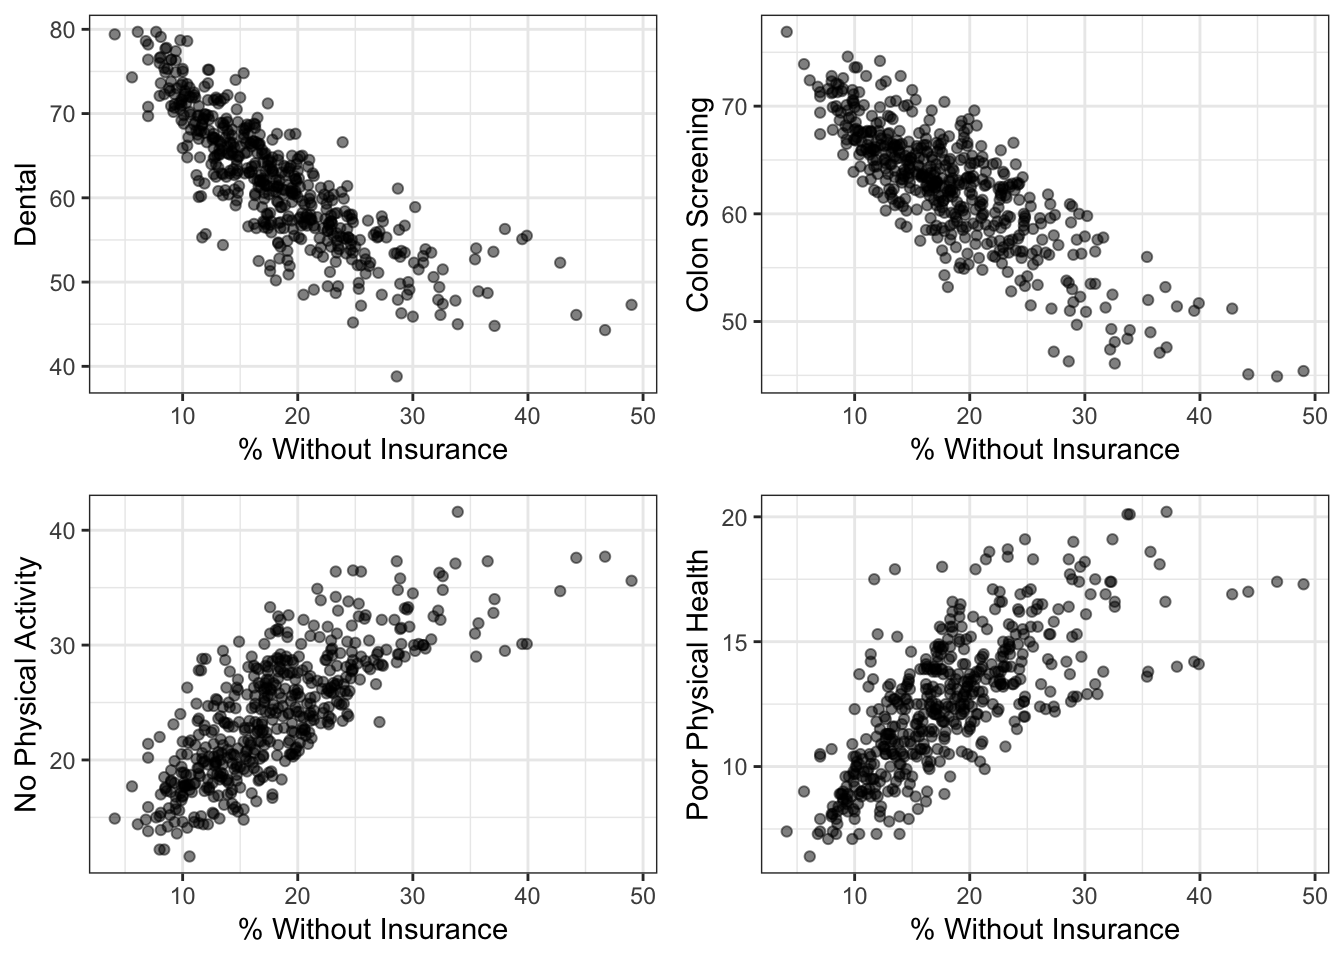
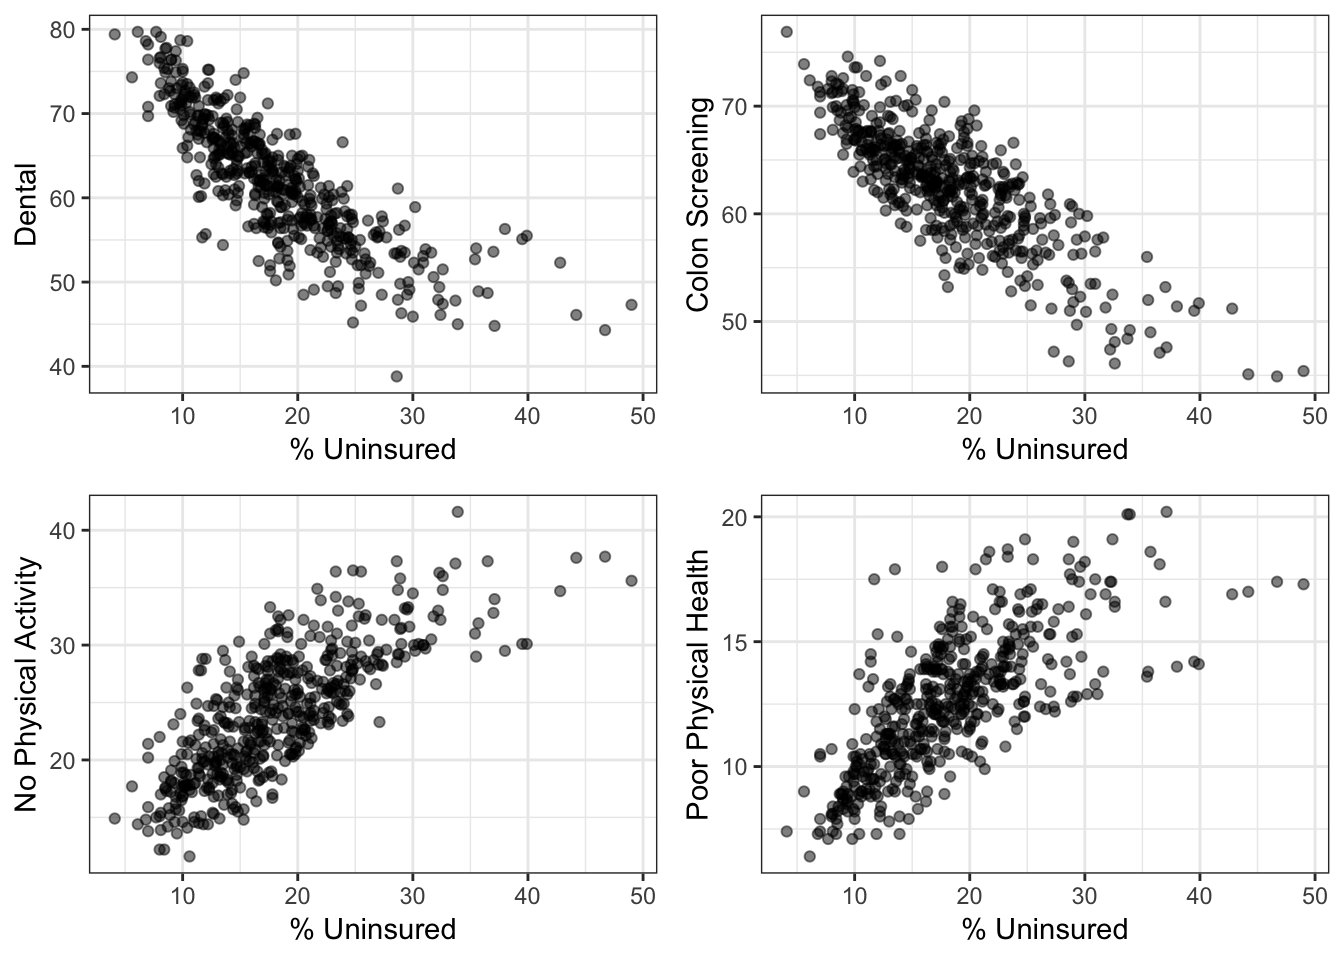
fixing axis titles

diff --git a/healthcare_expenditure.html b/healthcare_expenditure.html
@@ -229,49 +229,8 @@ $(document).ready(function () {
 <p><img src="healthcare_expenditure_files/figure-html/unnamed-chunk-2-1.png" width="672" /></p>
 <p>This map suggests that there very well may be regional differences in healthcare spending. Exploring this question shows clear graphical differences in regional spending:</p>
 <div id="htmlwidget-d6571c21b0c5cf5f8ed4" style="width:672px;height:480px;" class="plotly html-widget"></div>
-<script type="application/json" data-for="htmlwidget-d6571c21b0c5cf5f8ed4">{"x":{"visdat":{"31de7c56e632":["function () ","plotlyVisDat"]},"cur_data":"31de7c56e632","attrs":{"31de7c56e632":{"y":{},"text":{},"color":{},"alpha_stroke":1,"sizes":[10,100],"spans":[1,20],"type":"box"}},"layout":{"margin":{"b":40,"l":60,"t":25,"r":10},"xaxis":{"domain":[0,1],"automargin":true,"title":"Region"},"yaxis":{"domain":[0,1],"automargin":true,"title":"Health Expenditures per Capita per State"},"title":"Comparing Healthcare Expenditure Across Regions","font":"Open Sans","titlefont":"Open Sans","hovermode":"closest","showlegend":true},"source":"A","config":{"modeBarButtonsToAdd":[{"name":"Collaborate","icon":{"width":1000,"ascent":500,"descent":-50,"path":"M487 375c7-10 9-23 5-36l-79-259c-3-12-11-23-22-31-11-8-22-12-35-12l-263 0c-15 0-29 5-43 15-13 10-23 23-28 37-5 13-5 25-1 37 0 0 0 3 1 7 1 5 1 8 1 11 0 2 0 4-1 6 0 3-1 5-1 6 1 2 2 4 3 6 1 2 2 4 4 6 2 3 4 5 5 7 5 7 9 16 13 26 4 10 7 19 9 26 0 2 0 5 0 9-1 4-1 6 0 8 0 2 2 5 4 8 3 3 5 5 5 7 4 6 8 15 12 26 4 11 7 19 7 26 1 1 0 4 0 9-1 4-1 7 0 8 1 2 3 5 6 8 4 4 6 6 6 7 4 5 8 13 13 24 4 11 7 20 7 28 1 1 0 4 0 7-1 3-1 6-1 7 0 2 1 4 3 6 1 1 3 4 5 6 2 3 3 5 5 6 1 2 3 5 4 9 2 3 3 7 5 10 1 3 2 6 4 10 2 4 4 7 6 9 2 3 4 5 7 7 3 2 7 3 11 3 3 0 8 0 13-1l0-1c7 2 12 2 14 2l218 0c14 0 25-5 32-16 8-10 10-23 6-37l-79-259c-7-22-13-37-20-43-7-7-19-10-37-10l-248 0c-5 0-9-2-11-5-2-3-2-7 0-12 4-13 18-20 41-20l264 0c5 0 10 2 16 5 5 3 8 6 10 11l85 282c2 5 2 10 2 17 7-3 13-7 17-13z m-304 0c-1-3-1-5 0-7 1-1 3-2 6-2l174 0c2 0 4 1 7 2 2 2 4 4 5 7l6 18c0 3 0 5-1 7-1 1-3 2-6 2l-173 0c-3 0-5-1-8-2-2-2-4-4-4-7z m-24-73c-1-3-1-5 0-7 2-2 3-2 6-2l174 0c2 0 5 0 7 2 3 2 4 4 5 7l6 18c1 2 0 5-1 6-1 2-3 3-5 3l-174 0c-3 0-5-1-7-3-3-1-4-4-5-6z"},"click":"function(gd) { \n        // is this being viewed in RStudio?\n        if (location.search == '?viewer_pane=1') {\n          alert('To learn about plotly for collaboration, visit:\\n https://cpsievert.github.io/plotly_book/plot-ly-for-collaboration.html');\n        } else {\n          window.open('https://cpsievert.github.io/plotly_book/plot-ly-for-collaboration.html', '_blank');\n        }\n      }"}],"cloud":false},"data":[{"y":[11064,6452,7549,6804,7299,6927,8221,6714,7214,8044,5982,7913,8320],"text":["Health Expenditures per Capita: 11064<br />State: AK","Health Expenditures per Capita: 6452<br />State: AZ","Health Expenditures per Capita: 7549<br />State: CA","Health Expenditures per Capita: 6804<br />State: CO","Health Expenditures per Capita: 7299<br />State: HI","Health Expenditures per Capita: 6927<br />State: ID","Health Expenditures per Capita: 8221<br />State: MT","Health Expenditures per Capita: 6714<br />State: NV","Health Expenditures per Capita: 7214<br />State: NM","Health Expenditures per Capita: 8044<br />State: OR","Health Expenditures per Capita: 5982<br />State: UT","Health Expenditures per Capita: 7913<br />State: WA","Health Expenditures per Capita: 8320<br />State: WY"],"type":"box","name":"West","marker":{"color":"rgba(102,194,165,1)","line":{"color":"rgba(102,194,165,1)"}},"line":{"color":"rgba(102,194,165,1)"},"xaxis":"x","yaxis":"y","frame":null},{"y":[7281,7408,10254,11944,8076,6587,8004,7815,8602,7646,7264,7627,7311,7372,6998,7556,9462],"text":["Health Expenditures per Capita: 7281<br />State: AL","Health Expenditures per Capita: 7408<br />State: AR","Health Expenditures per Capita: 10254<br />State: DE","Health Expenditures per Capita: 11944<br />State: DC","Health Expenditures per Capita: 8076<br />State: FL","Health Expenditures per Capita: 6587<br />State: GA","Health Expenditures per Capita: 8004<br />State: KY","Health Expenditures per Capita: 7815<br />State: LA","Health Expenditures per Capita: 8602<br />State: MD","Health Expenditures per Capita: 7646<br />State: MS","Health Expenditures per Capita: 7264<br />State: NC","Health Expenditures per Capita: 7627<br />State: OK","Health Expenditures per Capita: 7311<br />State: SC","Health Expenditures per Capita: 7372<br />State: TN","Health Expenditures per Capita: 6998<br />State: TX","Health Expenditures per Capita: 7556<br />State: VA","Health Expenditures per Capita: 9462<br />State: WV"],"type":"box","name":"South","marker":{"color":"rgba(252,141,98,1)","line":{"color":"rgba(252,141,98,1)"}},"line":{"color":"rgba(252,141,98,1)"},"xaxis":"x","yaxis":"y","frame":null},{"y":[8262,8300,8200,7651,8055,8871,8107,8412,9851,8712,8933,8702],"text":["Health Expenditures per Capita: 8262<br />State: IL","Health Expenditures per Capita: 8300<br />State: IN","Health Expenditures per Capita: 8200<br />State: IA","Health Expenditures per Capita: 7651<br />State: KS","Health Expenditures per Capita: 8055<br />State: MI","Health Expenditures per Capita: 8871<br />State: MN","Health Expenditures per Capita: 8107<br />State: MO","Health Expenditures per Capita: 8412<br />State: NE","Health Expenditures per Capita: 9851<br />State: ND","Health Expenditures per Capita: 8712<br />State: OH","Health Expenditures per Capita: 8933<br />State: SD","Health Expenditures per Capita: 8702<br />State: WI"],"type":"box","name":"Midwest","marker":{"color":"rgba(141,160,203,1)","line":{"color":"rgba(141,160,203,1)"}},"line":{"color":"rgba(141,160,203,1)"},"xaxis":"x","yaxis":"y","frame":null},{"y":[9859,9531,10559,9589,8859,9778,9258,9551,10190],"text":["Health Expenditures per Capita: 9859<br />State: CT","Health Expenditures per Capita: 9531<br />State: ME","Health Expenditures per Capita: 10559<br />State: MA","Health Expenditures per Capita: 9589<br />State: NH","Health Expenditures per Capita: 8859<br />State: NJ","Health Expenditures per Capita: 9778<br />State: NY","Health Expenditures per Capita: 9258<br />State: PA","Health Expenditures per Capita: 9551<br />State: RI","Health Expenditures per Capita: 10190<br />State: VT"],"type":"box","name":"Northeast","marker":{"color":"rgba(231,138,195,1)","line":{"color":"rgba(231,138,195,1)"}},"line":{"color":"rgba(231,138,195,1)"},"xaxis":"x","yaxis":"y","frame":null}],"highlight":{"on":"plotly_click","persistent":false,"dynamic":false,"selectize":false,"opacityDim":0.2,"selected":{"opacity":1},"debounce":0},"base_url":"https://plot.ly"},"evals":["config.modeBarButtonsToAdd.0.click"],"jsHooks":[]}</script>
+<script type="application/json" data-for="htmlwidget-d6571c21b0c5cf5f8ed4">{"x":{"visdat":{"37666c955262":["function () ","plotlyVisDat"]},"cur_data":"37666c955262","attrs":{"37666c955262":{"y":{},"text":{},"color":{},"alpha_stroke":1,"sizes":[10,100],"spans":[1,20],"type":"box"}},"layout":{"margin":{"b":40,"l":60,"t":25,"r":10},"xaxis":{"domain":[0,1],"automargin":true,"title":"Region"},"yaxis":{"domain":[0,1],"automargin":true,"title":"Health Expenditures per Capita per State"},"title":"Comparing Healthcare Expenditure Across Regions","font":"Open Sans","titlefont":"Open Sans","hovermode":"closest","showlegend":true},"source":"A","config":{"modeBarButtonsToAdd":[{"name":"Collaborate","icon":{"width":1000,"ascent":500,"descent":-50,"path":"M487 375c7-10 9-23 5-36l-79-259c-3-12-11-23-22-31-11-8-22-12-35-12l-263 0c-15 0-29 5-43 15-13 10-23 23-28 37-5 13-5 25-1 37 0 0 0 3 1 7 1 5 1 8 1 11 0 2 0 4-1 6 0 3-1 5-1 6 1 2 2 4 3 6 1 2 2 4 4 6 2 3 4 5 5 7 5 7 9 16 13 26 4 10 7 19 9 26 0 2 0 5 0 9-1 4-1 6 0 8 0 2 2 5 4 8 3 3 5 5 5 7 4 6 8 15 12 26 4 11 7 19 7 26 1 1 0 4 0 9-1 4-1 7 0 8 1 2 3 5 6 8 4 4 6 6 6 7 4 5 8 13 13 24 4 11 7 20 7 28 1 1 0 4 0 7-1 3-1 6-1 7 0 2 1 4 3 6 1 1 3 4 5 6 2 3 3 5 5 6 1 2 3 5 4 9 2 3 3 7 5 10 1 3 2 6 4 10 2 4 4 7 6 9 2 3 4 5 7 7 3 2 7 3 11 3 3 0 8 0 13-1l0-1c7 2 12 2 14 2l218 0c14 0 25-5 32-16 8-10 10-23 6-37l-79-259c-7-22-13-37-20-43-7-7-19-10-37-10l-248 0c-5 0-9-2-11-5-2-3-2-7 0-12 4-13 18-20 41-20l264 0c5 0 10 2 16 5 5 3 8 6 10 11l85 282c2 5 2 10 2 17 7-3 13-7 17-13z m-304 0c-1-3-1-5 0-7 1-1 3-2 6-2l174 0c2 0 4 1 7 2 2 2 4 4 5 7l6 18c0 3 0 5-1 7-1 1-3 2-6 2l-173 0c-3 0-5-1-8-2-2-2-4-4-4-7z m-24-73c-1-3-1-5 0-7 2-2 3-2 6-2l174 0c2 0 5 0 7 2 3 2 4 4 5 7l6 18c1 2 0 5-1 6-1 2-3 3-5 3l-174 0c-3 0-5-1-7-3-3-1-4-4-5-6z"},"click":"function(gd) { \n        // is this being viewed in RStudio?\n        if (location.search == '?viewer_pane=1') {\n          alert('To learn about plotly for collaboration, visit:\\n https://cpsievert.github.io/plotly_book/plot-ly-for-collaboration.html');\n        } else {\n          window.open('https://cpsievert.github.io/plotly_book/plot-ly-for-collaboration.html', '_blank');\n        }\n      }"}],"cloud":false},"data":[{"y":[11064,6452,7549,6804,7299,6927,8221,6714,7214,8044,5982,7913,8320],"text":["Health Expenditures per Capita: 11064<br />State: AK","Health Expenditures per Capita: 6452<br />State: AZ","Health Expenditures per Capita: 7549<br />State: CA","Health Expenditures per Capita: 6804<br />State: CO","Health Expenditures per Capita: 7299<br />State: HI","Health Expenditures per Capita: 6927<br />State: ID","Health Expenditures per Capita: 8221<br />State: MT","Health Expenditures per Capita: 6714<br />State: NV","Health Expenditures per Capita: 7214<br />State: NM","Health Expenditures per Capita: 8044<br />State: OR","Health Expenditures per Capita: 5982<br />State: UT","Health Expenditures per Capita: 7913<br />State: WA","Health Expenditures per Capita: 8320<br />State: WY"],"type":"box","name":"West","marker":{"color":"rgba(102,194,165,1)","line":{"color":"rgba(102,194,165,1)"}},"line":{"color":"rgba(102,194,165,1)"},"xaxis":"x","yaxis":"y","frame":null},{"y":[7281,7408,10254,11944,8076,6587,8004,7815,8602,7646,7264,7627,7311,7372,6998,7556,9462],"text":["Health Expenditures per Capita: 7281<br />State: AL","Health Expenditures per Capita: 7408<br />State: AR","Health Expenditures per Capita: 10254<br />State: DE","Health Expenditures per Capita: 11944<br />State: DC","Health Expenditures per Capita: 8076<br />State: FL","Health Expenditures per Capita: 6587<br />State: GA","Health Expenditures per Capita: 8004<br />State: KY","Health Expenditures per Capita: 7815<br />State: LA","Health Expenditures per Capita: 8602<br />State: MD","Health Expenditures per Capita: 7646<br />State: MS","Health Expenditures per Capita: 7264<br />State: NC","Health Expenditures per Capita: 7627<br />State: OK","Health Expenditures per Capita: 7311<br />State: SC","Health Expenditures per Capita: 7372<br />State: TN","Health Expenditures per Capita: 6998<br />State: TX","Health Expenditures per Capita: 7556<br />State: VA","Health Expenditures per Capita: 9462<br />State: WV"],"type":"box","name":"South","marker":{"color":"rgba(252,141,98,1)","line":{"color":"rgba(252,141,98,1)"}},"line":{"color":"rgba(252,141,98,1)"},"xaxis":"x","yaxis":"y","frame":null},{"y":[8262,8300,8200,7651,8055,8871,8107,8412,9851,8712,8933,8702],"text":["Health Expenditures per Capita: 8262<br />State: IL","Health Expenditures per Capita: 8300<br />State: IN","Health Expenditures per Capita: 8200<br />State: IA","Health Expenditures per Capita: 7651<br />State: KS","Health Expenditures per Capita: 8055<br />State: MI","Health Expenditures per Capita: 8871<br />State: MN","Health Expenditures per Capita: 8107<br />State: MO","Health Expenditures per Capita: 8412<br />State: NE","Health Expenditures per Capita: 9851<br />State: ND","Health Expenditures per Capita: 8712<br />State: OH","Health Expenditures per Capita: 8933<br />State: SD","Health Expenditures per Capita: 8702<br />State: WI"],"type":"box","name":"Midwest","marker":{"color":"rgba(141,160,203,1)","line":{"color":"rgba(141,160,203,1)"}},"line":{"color":"rgba(141,160,203,1)"},"xaxis":"x","yaxis":"y","frame":null},{"y":[9859,9531,10559,9589,8859,9778,9258,9551,10190],"text":["Health Expenditures per Capita: 9859<br />State: CT","Health Expenditures per Capita: 9531<br />State: ME","Health Expenditures per Capita: 10559<br />State: MA","Health Expenditures per Capita: 9589<br />State: NH","Health Expenditures per Capita: 8859<br />State: NJ","Health Expenditures per Capita: 9778<br />State: NY","Health Expenditures per Capita: 9258<br />State: PA","Health Expenditures per Capita: 9551<br />State: RI","Health Expenditures per Capita: 10190<br />State: VT"],"type":"box","name":"Northeast","marker":{"color":"rgba(231,138,195,1)","line":{"color":"rgba(231,138,195,1)"}},"line":{"color":"rgba(231,138,195,1)"},"xaxis":"x","yaxis":"y","frame":null}],"highlight":{"on":"plotly_click","persistent":false,"dynamic":false,"selectize":false,"opacityDim":0.2,"selected":{"opacity":1},"debounce":0},"base_url":"https://plot.ly"},"evals":["config.modeBarButtonsToAdd.0.click"],"jsHooks":[]}</script>
 <p>Further analysis shows that there is a statistically significant difference between regions:</p>
-<table>
-<thead>
-<tr class="header">
-<th align="left">term</th>
-<th align="right">estimate</th>
-<th align="right">std.error</th>
-<th align="right">statistic</th>
-<th align="right">p.value</th>
-</tr>
-</thead>
-<tbody>
-<tr class="odd">
-<td align="left">(Intercept)</td>
-<td align="right">7577.1538</td>
-<td align="right">296.0410</td>
-<td align="right">25.594946</td>
-<td align="right">0.0000000</td>
-</tr>
-<tr class="even">
-<td align="left">regionSouth</td>
-<td align="right">493.8462</td>
-<td align="right">393.2675</td>
-<td align="right">1.255751</td>
-<td align="right">0.2154132</td>
-</tr>
-<tr class="odd">
-<td align="left">regionMidwest</td>
-<td align="right">927.5128</td>
-<td align="right">427.2984</td>
-<td align="right">2.170644</td>
-<td align="right">0.0350430</td>
-</tr>
-<tr class="even">
-<td align="left">regionNortheast</td>
-<td align="right">2108.8462</td>
-<td align="right">462.8518</td>
-<td align="right">4.556202</td>
-<td align="right">0.0000371</td>
-</tr>
-</tbody>
-</table>
 <table>
 <thead>
 <tr class="header">

diff --git a/health_insurance.html b/health_insurance.html
@@ -382,73 +382,8 @@ Positive
 </tr>
 </tbody>
 </table>
-<p>This preliminary analysis shows that health insurance status could be used as a predictor of certain health practices. Any reliable statistical model would need to factor in multiple variables but here we can see some of the associations mentioned:</p>
+<p>This preliminary analysis shows that health insurance status could be used as a predictor of certain health practices. Any reliable statistical model would need to factor in multiple variables but here we can see some of the associations mentioned (note that all values presented are prevalences):</p>
 <p><img src="health_insurance_files/figure-html/unnamed-chunk-4-1.png" width="672" /></p>
-<table class="table table-striped" style="width: auto !important; margin-left: auto; margin-right: auto;">
-<thead>
-<tr>
-<th style="text-align:left;">
-</th>
-<th style="text-align:right;">
-Df
-</th>
-<th style="text-align:right;">
-Sum Sq
-</th>
-<th style="text-align:right;">
-Mean Sq
-</th>
-<th style="text-align:right;">
-F value
-</th>
-<th style="text-align:right;">
-Pr(&gt;F)
-</th>
-</tr>
-</thead>
-<tbody>
-<tr>
-<td style="text-align:left;">
-region
-</td>
-<td style="text-align:right;">
-3
-</td>
-<td style="text-align:right;">
-3014.676
-</td>
-<td style="text-align:right;">
-1004.89197
-</td>
-<td style="text-align:right;">
-24.42363
-</td>
-<td style="text-align:right;">
-9e-15
-</td>
-</tr>
-<tr>
-<td style="text-align:left;">
-Residuals
-</td>
-<td style="text-align:right;">
-496
-</td>
-<td style="text-align:right;">
-20407.549
-</td>
-<td style="text-align:right;">
-41.14425
-</td>
-<td style="text-align:right;">
-NA
-</td>
-<td style="text-align:right;">
-NA
-</td>
-</tr>
-</tbody>
-</table>
 
 
 
